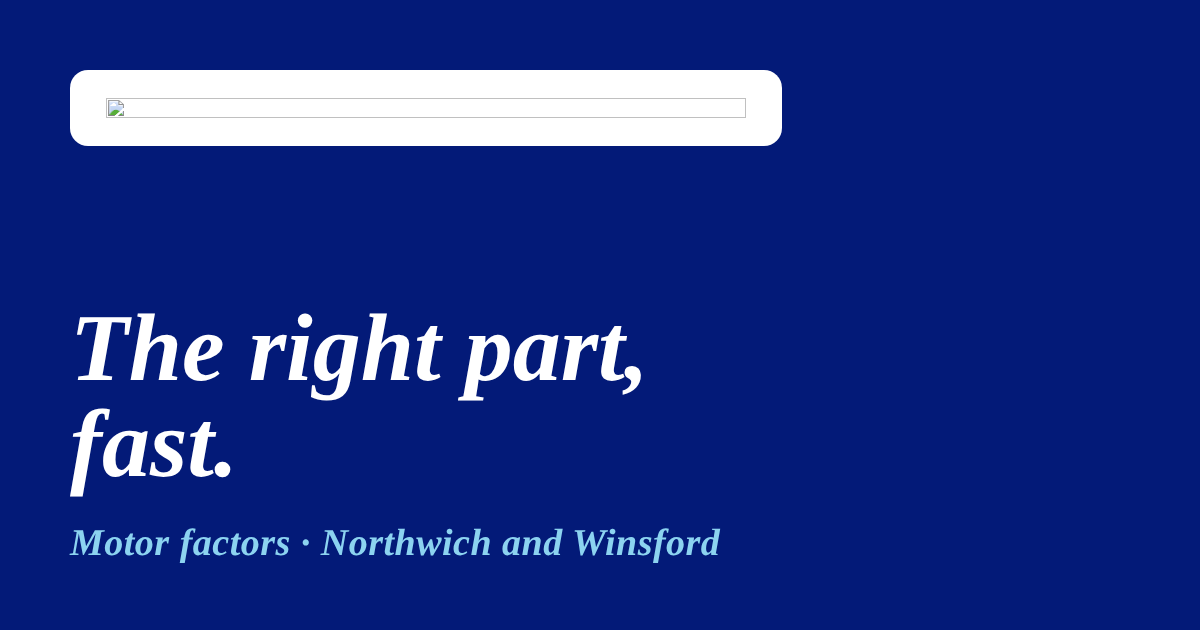
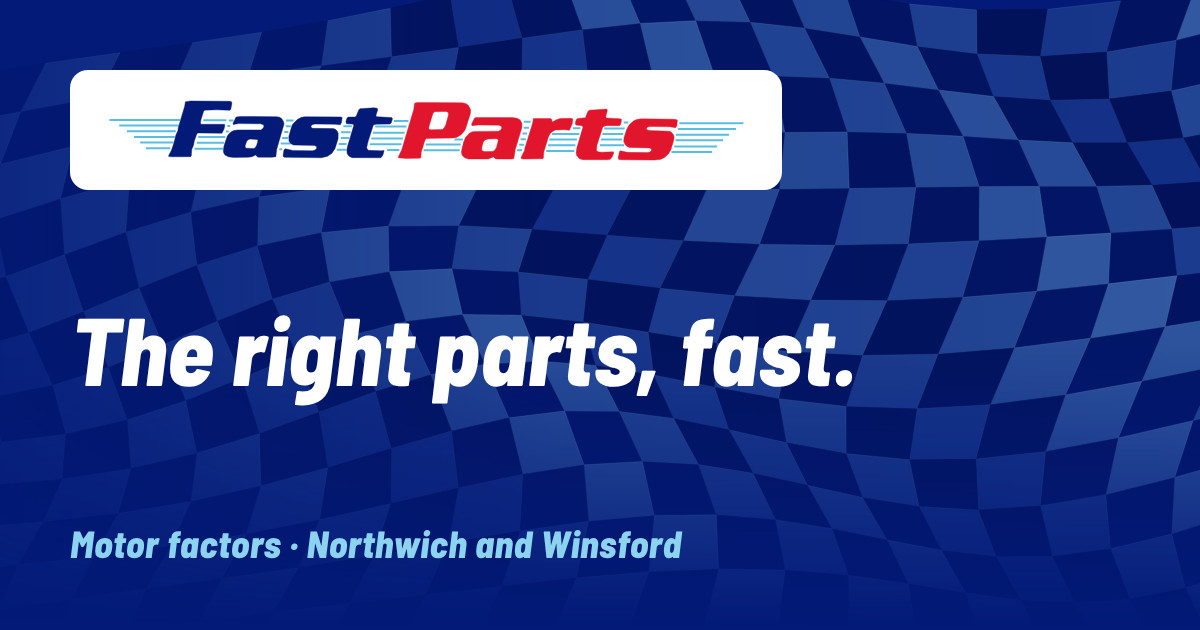
Part changed to parts, fast

diff --git a/index.html b/index.html
@@ -43,7 +43,7 @@
 <section class="hero"><div class="wrap">
 <div class="txt">
 <p class="eyebrow">Motor factors · Northwich and Winsford</p>
-<h1>The right part, fast.</h1>
+<h1>The right parts, fast.</h1>
 <p class="lead">Aftermarket parts for most cars and vans, plus tools and consumables. Ring us or pop in and our local team will find exactly what you need.</p>
 <div class="actions"><a class="call light" href="tel:01606330555"><b>Call Northwich</b><span>01606 330 555</span></a>
 <a class="call light" href="tel:01606552385"><b>Call Winsford</b><span>01606 552 385</span></a></div><a class="btn" href="#enquiry">Send a Parts Enquiry</a>
@@ -100,7 +100,7 @@
 </main>
 <footer class="site">
 <div class="wrap cols">
-<div><div class="fbrand"><img class="logo-f" src="images/fast-parts-logo.svg" alt="Fast Parts" width="300" height="76"><p>The right part, fast.</p></div></div>
+<div><div class="fbrand"><img class="logo-f" src="images/fast-parts-logo.svg" alt="Fast Parts" width="300" height="76"><p>The right parts, fast.</p></div></div>
 <div class="fcol"><h3>Northwich</h3><p class="addr">171 Witton Street<br><em>Entrance on Albion Road</em><br>Northwich, Cheshire CW9 5LP</p><p class="ph"><a href="tel:01606330555"><b>01606 330 555</b></a></p></div>
 <div class="fcol"><h3>Winsford</h3><p class="addr">68 High Street<br>Winsford, Cheshire CW7 2AP</p><p class="ph"><a href="tel:01606552385"><b>01606 552 385</b></a></p></div>
 <div><h3>Opening hours</h3><p>Mon to Fri 08:30 to 17:30<br>Sat 09:00 to 12:00<br>Closed Sundays and bank holidays</p></div>

diff --git a/404.html b/404.html
@@ -43,7 +43,7 @@
 <section class="block last wrap"><div class="prose"><p class="eyebrow" style="color:var(--red)">404</p><h1 style="font-size:clamp(40px,5.5vw,60px)">This page has gone missing.</h1><p>Sorry, we can't find that page. Head back to the home page, or ring us and we'll sort it: <a href="tel:01606330555">Northwich 01606 330 555</a> or <a href="tel:01606552385">Winsford 01606 552 385</a>.</p><p><a class="btn" href="index.html">Back to the homepage</a> <a class="btn ghost" href="find-us.html">Find a shop</a></p></div></section></main>
 <footer class="site">
 <div class="wrap cols">
-<div><div class="fbrand"><img class="logo-f" src="images/fast-parts-logo.svg" alt="Fast Parts" width="300" height="76"><p>The right part, fast.</p></div></div>
+<div><div class="fbrand"><img class="logo-f" src="images/fast-parts-logo.svg" alt="Fast Parts" width="300" height="76"><p>The right parts, fast.</p></div></div>
 <div class="fcol"><h3>Northwich</h3><p class="addr">171 Witton Street<br><em>Entrance on Albion Road</em><br>Northwich, Cheshire CW9 5LP</p><p class="ph"><a href="tel:01606330555"><b>01606 330 555</b></a></p></div>
 <div class="fcol"><h3>Winsford</h3><p class="addr">68 High Street<br>Winsford, Cheshire CW7 2AP</p><p class="ph"><a href="tel:01606552385"><b>01606 552 385</b></a></p></div>
 <div><h3>Opening hours</h3><p>Mon to Fri 08:30 to 17:30<br>Sat 09:00 to 12:00<br>Closed Sundays and bank holidays</p></div>

diff --git a/about.html b/about.html
@@ -62,7 +62,7 @@
 </main>
 <footer class="site">
 <div class="wrap cols">
-<div><div class="fbrand"><img class="logo-f" src="images/fast-parts-logo.svg" alt="Fast Parts" width="300" height="76"><p>The right part, fast.</p></div></div>
+<div><div class="fbrand"><img class="logo-f" src="images/fast-parts-logo.svg" alt="Fast Parts" width="300" height="76"><p>The right parts, fast.</p></div></div>
 <div class="fcol"><h3>Northwich</h3><p class="addr">171 Witton Street<br><em>Entrance on Albion Road</em><br>Northwich, Cheshire CW9 5LP</p><p class="ph"><a href="tel:01606330555"><b>01606 330 555</b></a></p></div>
 <div class="fcol"><h3>Winsford</h3><p class="addr">68 High Street<br>Winsford, Cheshire CW7 2AP</p><p class="ph"><a href="tel:01606552385"><b>01606 552 385</b></a></p></div>
 <div><h3>Opening hours</h3><p>Mon to Fri 08:30 to 17:30<br>Sat 09:00 to 12:00<br>Closed Sundays and bank holidays</p></div>

diff --git a/cookies.html b/cookies.html
@@ -57,7 +57,7 @@
 </main>
 <footer class="site">
 <div class="wrap cols">
-<div><div class="fbrand"><img class="logo-f" src="images/fast-parts-logo.svg" alt="Fast Parts" width="300" height="76"><p>The right part, fast.</p></div></div>
+<div><div class="fbrand"><img class="logo-f" src="images/fast-parts-logo.svg" alt="Fast Parts" width="300" height="76"><p>The right parts, fast.</p></div></div>
 <div class="fcol"><h3>Northwich</h3><p class="addr">171 Witton Street<br><em>Entrance on Albion Road</em><br>Northwich, Cheshire CW9 5LP</p><p class="ph"><a href="tel:01606330555"><b>01606 330 555</b></a></p></div>
 <div class="fcol"><h3>Winsford</h3><p class="addr">68 High Street<br>Winsford, Cheshire CW7 2AP</p><p class="ph"><a href="tel:01606552385"><b>01606 552 385</b></a></p></div>
 <div><h3>Opening hours</h3><p>Mon to Fri 08:30 to 17:30<br>Sat 09:00 to 12:00<br>Closed Sundays and bank holidays</p></div>

diff --git a/find-us.html b/find-us.html
@@ -63,7 +63,7 @@
 </main>
 <footer class="site">
 <div class="wrap cols">
-<div><div class="fbrand"><img class="logo-f" src="images/fast-parts-logo.svg" alt="Fast Parts" width="300" height="76"><p>The right part, fast.</p></div></div>
+<div><div class="fbrand"><img class="logo-f" src="images/fast-parts-logo.svg" alt="Fast Parts" width="300" height="76"><p>The right parts, fast.</p></div></div>
 <div class="fcol"><h3>Northwich</h3><p class="addr">171 Witton Street<br><em>Entrance on Albion Road</em><br>Northwich, Cheshire CW9 5LP</p><p class="ph"><a href="tel:01606330555"><b>01606 330 555</b></a></p></div>
 <div class="fcol"><h3>Winsford</h3><p class="addr">68 High Street<br>Winsford, Cheshire CW7 2AP</p><p class="ph"><a href="tel:01606552385"><b>01606 552 385</b></a></p></div>
 <div><h3>Opening hours</h3><p>Mon to Fri 08:30 to 17:30<br>Sat 09:00 to 12:00<br>Closed Sundays and bank holidays</p></div>

diff --git a/privacy.html b/privacy.html
@@ -57,7 +57,7 @@
 </main>
 <footer class="site">
 <div class="wrap cols">
-<div><div class="fbrand"><img class="logo-f" src="images/fast-parts-logo.svg" alt="Fast Parts" width="300" height="76"><p>The right part, fast.</p></div></div>
+<div><div class="fbrand"><img class="logo-f" src="images/fast-parts-logo.svg" alt="Fast Parts" width="300" height="76"><p>The right parts, fast.</p></div></div>
 <div class="fcol"><h3>Northwich</h3><p class="addr">171 Witton Street<br><em>Entrance on Albion Road</em><br>Northwich, Cheshire CW9 5LP</p><p class="ph"><a href="tel:01606330555"><b>01606 330 555</b></a></p></div>
 <div class="fcol"><h3>Winsford</h3><p class="addr">68 High Street<br>Winsford, Cheshire CW7 2AP</p><p class="ph"><a href="tel:01606552385"><b>01606 552 385</b></a></p></div>
 <div><h3>Opening hours</h3><p>Mon to Fri 08:30 to 17:30<br>Sat 09:00 to 12:00<br>Closed Sundays and bank holidays</p></div>

diff --git a/retail.html b/retail.html
@@ -93,7 +93,7 @@
 </main>
 <footer class="site">
 <div class="wrap cols">
-<div><div class="fbrand"><img class="logo-f" src="images/fast-parts-logo.svg" alt="Fast Parts" width="300" height="76"><p>The right part, fast.</p></div></div>
+<div><div class="fbrand"><img class="logo-f" src="images/fast-parts-logo.svg" alt="Fast Parts" width="300" height="76"><p>The right parts, fast.</p></div></div>
 <div class="fcol"><h3>Northwich</h3><p class="addr">171 Witton Street<br><em>Entrance on Albion Road</em><br>Northwich, Cheshire CW9 5LP</p><p class="ph"><a href="tel:01606330555"><b>01606 330 555</b></a></p></div>
 <div class="fcol"><h3>Winsford</h3><p class="addr">68 High Street<br>Winsford, Cheshire CW7 2AP</p><p class="ph"><a href="tel:01606552385"><b>01606 552 385</b></a></p></div>
 <div><h3>Opening hours</h3><p>Mon to Fri 08:30 to 17:30<br>Sat 09:00 to 12:00<br>Closed Sundays and bank holidays</p></div>

diff --git a/trade.html b/trade.html
@@ -93,7 +93,7 @@
 </main>
 <footer class="site">
 <div class="wrap cols">
-<div><div class="fbrand"><img class="logo-f" src="images/fast-parts-logo.svg" alt="Fast Parts" width="300" height="76"><p>The right part, fast.</p></div></div>
+<div><div class="fbrand"><img class="logo-f" src="images/fast-parts-logo.svg" alt="Fast Parts" width="300" height="76"><p>The right parts, fast.</p></div></div>
 <div class="fcol"><h3>Northwich</h3><p class="addr">171 Witton Street<br><em>Entrance on Albion Road</em><br>Northwich, Cheshire CW9 5LP</p><p class="ph"><a href="tel:01606330555"><b>01606 330 555</b></a></p></div>
 <div class="fcol"><h3>Winsford</h3><p class="addr">68 High Street<br>Winsford, Cheshire CW7 2AP</p><p class="ph"><a href="tel:01606552385"><b>01606 552 385</b></a></p></div>
 <div><h3>Opening hours</h3><p>Mon to Fri 08:30 to 17:30<br>Sat 09:00 to 12:00<br>Closed Sundays and bank holidays</p></div>
